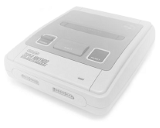
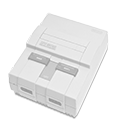
update preview

diff --git a/source/libgui/GuiFileBrowser.cpp b/source/libgui/GuiFileBrowser.cpp
@@ -49,6 +49,7 @@ static PixelColor rowPressColor(PixelColor tint, PixelColor accent)
 }
 
 GuiFileBrowser::GuiFileBrowser(int w, int h)
+	: previewDefaultImage(default_preview_png)
 {
 	width = w;
 	height = h;
@@ -248,19 +249,11 @@ void GuiFileBrowser::resetState()
 
 	// The listing itself just changed (new folder/device) - index N no
 	// longer refers to the same file it used to, so any cached/in-flight
-	// preview needs to go, and the display should show nothing until the
-	// new selection's preview resolves.
+	// preview needs to go. What's on screen stays until the new selection resolves.
 	if(previewCache)
 	{
 		previewCache->flush();
 		previewRequestedIndex = -1;
-		if(previewTarget && previewLastImage != nullptr)
-		{
-			previewTarget->setImage(nullptr);
-			previewLastImage = nullptr;
-			if(previewChangedCB)
-				previewChangedCB(previewChangedCBContext, previewTarget);
-		}
 	}
 }
 
@@ -290,6 +283,19 @@ void GuiFileBrowser::setPreviewImage(GuiImage * target, GuiPreviewPathResolver r
 	previewChangedCB = changedCB;
 	previewChangedCBContext = changedCBContext;
 	previewRequestedIndex = -1;
+	showPreview(&previewDefaultImage, true);
+}
+
+void GuiFileBrowser::showPreview(GuiImageData * img, bool isDefault)
+{
+	if(img == previewLastImage)
+		return;
+
+	previewTarget->setImage(img);
+	previewLastImage = img;
+	previewCache->pin(isDefault ? nullptr : img);
+	if(previewChangedCB)
+		previewChangedCB(previewChangedCBContext, previewTarget, isDefault);
 }
 
 void GuiFileBrowser::refreshPreview()
@@ -611,11 +617,13 @@ void GuiFileBrowser::update(InputController * controller)
 		if(browser.selIndex != previewRequestedIndex)
 		{
 			previewRequestedIndex = browser.selIndex;
+			previewSelHasPath = false;
 
 			char path[GUI_IMAGE_CACHE_MAX_PATH];
 			if(previewResolver && browser.selIndex >= 0 && browser.selIndex < browser.numEntries &&
 			   previewResolver(previewResolverContext, browser.selIndex, path, sizeof(path)))
 			{
+				previewSelHasPath = true;
 				previewCache->request(browser.selIndex, path);
 
 				int radius = previewCache->getPrefetchRadius();
@@ -634,17 +642,34 @@ void GuiFileBrowser::update(InputController * controller)
 			}
 		}
 
-		previewCache->update();
+		bool landed = previewCache->update();
 
 		if(previewTarget)
 		{
-			GuiImageData * img = previewCache->get(browser.selIndex);
-			if(img != previewLastImage)
+			if(landed && previewLastImage && previewLastImage != &previewDefaultImage)
 			{
-				previewTarget->setImage(img);
-				previewLastImage = img;
-				if(previewChangedCB)
-					previewChangedCB(previewChangedCBContext, previewTarget);
+				if(previewLastImage->getTexture())
+				{
+					previewTarget->setImage(previewLastImage);
+					if(previewChangedCB)
+						previewChangedCB(previewChangedCBContext, previewTarget, false);
+				}
+				else // that landing was a failed decode that wiped the slot: fall back, never blank
+				{
+					previewLastImage = nullptr;
+					showPreview(&previewDefaultImage, true);
+				}
+			}
+
+			if(!previewSelHasPath)
+				showPreview(&previewDefaultImage, true);
+			else if(previewCache->isResolved(browser.selIndex))
+			{
+				GuiImageData * img = previewCache->get(browser.selIndex);
+				if(img)
+					showPreview(img, false);
+				else
+					showPreview(&previewDefaultImage, true);
 			}
 		}
 	}

diff --git a/source/libgui/GuiImageAsyncCache.cpp b/source/libgui/GuiImageAsyncCache.cpp
@@ -85,7 +85,8 @@ void GuiImageAsyncCache::flush()
 		cache[i].index = -1;
 		cache[i].resolved = false;
 		cache[i].hasImage = false;
-		cache[i].image.clear();
+		if(&cache[i].image != pinned)
+			cache[i].image.clear(); // the displayed image stays valid until it's replaced
 	}
 	lruClock = 0;
 }
@@ -104,14 +105,17 @@ GuiImageAsyncCache::CacheSlot * GuiImageAsyncCache::acquireSlotFor(int index)
 	if(existing)
 		return existing;
 
+	// never hand out the slot that's on screen (unless it's the only one)
 	for(int i = 0; i < capacity; i++)
-		if(cache[i].index == -1)
+		if(cache[i].index == -1 && (&cache[i].image != pinned || capacity == 1))
 			return &cache[i];
 
-	CacheSlot * victim = &cache[0];
-	for(int i = 1; i < capacity; i++)
-		if(cache[i].lastUsed < victim->lastUsed)
+	CacheSlot * victim = nullptr;
+	for(int i = 0; i < capacity; i++)
+		if(&cache[i].image != pinned && (!victim || cache[i].lastUsed < victim->lastUsed))
 			victim = &cache[i];
+	if(!victim)
+		victim = &cache[0];
 
 	victim->index = -1;
 	victim->resolved = false;
@@ -119,7 +123,7 @@ GuiImageAsyncCache::CacheSlot * GuiImageAsyncCache::acquireSlotFor(int index)
 	return victim;
 }
 
-void GuiImageAsyncCache::update()
+bool GuiImageAsyncCache::update()
 {
 	int index;
 	GuiImageData::DecodedImage decoded;
@@ -127,7 +131,7 @@ void GuiImageAsyncCache::update()
 	{
 		MutexLock guard(mutex);
 		if(!completedReady)
-			return;
+			return false;
 		index = completedIndex;
 		decoded = std::move(completedImage);
 		completedReady = false;
@@ -135,13 +139,14 @@ void GuiImageAsyncCache::update()
 	}
 
 	if(index < 0)
-		return; // never file a result under the "empty slot" index
+		return false; // never file a result under the "empty slot" index
 
 	CacheSlot * slot = acquireSlotFor(index);
 	slot->index = index;
 	slot->lastUsed = ++lruClock;
 	slot->resolved = true;
 	slot->hasImage = decoded.valid() && slot->image.uploadDecoded(std::move(decoded));
+	return true;
 }
 
 void GuiImageAsyncCache::request(int index, const char * path)
@@ -204,6 +209,12 @@ GuiImageData * GuiImageAsyncCache::get(int index)
 	if(!slot || !slot->resolved || !slot->hasImage)
 		return nullptr;
 	return &slot->image;
+}
+
+bool GuiImageAsyncCache::isResolved(int index)
+{
+	CacheSlot * slot = findSlot(index);
+	return slot && slot->resolved;
 }
 
 void GuiImageAsyncCache::wake()

diff --git a/source/menu.cpp b/source/menu.cpp
@@ -1021,7 +1021,7 @@ static bool ResolvePreviewImagePath(void *, int index, char * outPath, size_t ou
 }
 
 // Fits the preview image inside its card (with a margin) and sizes the shadow behind it to match
-static void OnPreviewImageChanged(void * context, GuiImage * target)
+static void OnPreviewImageChanged(void * context, GuiImage * target, bool isDefault)
 {
 	MenuCoverShadow * shadow = (MenuCoverShadow *)context;
 	int w = 0, h = 0;
@@ -1033,7 +1033,7 @@ static void OnPreviewImageChanged(void * context, GuiImage * target)
 		w = (int)(target->getWidth() * scale + 0.5f);
 		h = (int)(target->getHeight() * scale + 0.5f);
 	}
-	shadow->fit(w, h);
+	shadow->fit(isDefault ? 0 : w, isDefault ? 0 : h); // the default image has no drop shadow
 }
 
 static int BrowserLoadFileTask(void *) { return BrowserLoadFile(); }
@@ -1263,9 +1263,6 @@ static int MenuGameSelection()
 	gameBrowser.setPosition(MENU_LIST_X, MENU_LIST_Y);
 	ResetBrowser();
 
-	MenuCardShape bgPreview(MENU_PREVIEW_W, MENU_PREVIEW_H);
-	bgPreview.setPosition(MENU_PREVIEW_X, MENU_LIST_Y);
-
 	MenuCoverShadow previewShadow;
 	previewShadow.setAlignment(ALIGN_H::CENTRE, ALIGN_V::MIDDLE);
 	previewShadow.setPosition(MENU_PREVIEW_X + MENU_PREVIEW_W/2 - platform->getVideo()->getScreenWidth()/2,
@@ -1286,7 +1283,6 @@ static int MenuGameSelection()
 	menu->btnLogo.setPosition(-50, 24);
 	menu->mainWindow.appendWithAutoRemove(&titleTxt);
 	menu->mainWindow.appendWithAutoRemove(&gameBrowser);
-	menu->mainWindow.appendWithAutoRemove(&bgPreview);
 	menu->mainWindow.appendWithAutoRemove(&previewShadow);
 	menu->mainWindow.appendWithAutoRemove(&preview);
 	menu->mainWindow.appendWithAutoRemove(&buttonWindow);

diff --git a/source/libgui/GuiImageAsyncCache.h b/source/libgui/GuiImageAsyncCache.h
@@ -57,7 +57,8 @@ class GuiImageAsyncCache
 
 		//!Call once per frame, before get(). Cheap; does nothing most frames.
 		//!Must be called from the main/GPU thread.
-		void update();
+		//!\return true if a decoded image was uploaded this call (which can overwrite a slot's texture)
+		bool update();
 
 		//!Requests the image for index, loaded from path. Cheap and non-blocking
 		void request(int index, const char * path);
@@ -71,6 +72,16 @@ class GuiImageAsyncCache
 		//!confirmed to have no image at that path). Never blocks. Main
 		//!thread only.
 		GuiImageData * get(int index);
+
+		//!\return true once index has finished loading, successfully or not (so a nullptr
+		//!from get() then means "no image", rather than "still loading"). Main thread only.
+		bool isResolved(int index);
+
+		//!Marks the image currently on screen so the cache never evicts, overwrites or
+		//!clears it while it's being displayed (GuiImage only borrows its texture).
+		//!Pass nullptr when the displayed image isn't one of this cache's. With capacity 1
+		//!the one slot can't be spared, so it's overwritten when the next image lands.
+		void pin(GuiImageData * img) { pinned = img; }
 
 		int getCapacity() const { return capacity; }
 		int getPrefetchRadius() const { return prefetchRadius; }
@@ -110,6 +121,7 @@ class GuiImageAsyncCache
 		std::unique_ptr<PrefetchSlot[]> prefetchSlots; // size: max(1, prefetchRadius*2)
 		int prefetchSlotCount;
 		uint32_t lruClock = 0;
+		GuiImageData * pinned = nullptr;
 
 		// ---- everything below is guarded by sync.mutex ----
 		Mutex mutex;

diff --git a/source/libgui/GuiFileBrowser.h b/source/libgui/GuiFileBrowser.h
@@ -21,8 +21,9 @@ class GuiArrow;
 typedef bool (*GuiPreviewPathResolver)(void * context, int index, char * outPath, size_t outPathSize);
 
 //!Called whenever GuiFileBrowser actually changes what target (the
-//!GuiImage passed to setPreviewImage()) is showing.
-typedef void (*GuiPreviewImageChangedCB)(void * context, GuiImage * target);
+//!GuiImage passed to setPreviewImage()) is showing. isDefault is true when it's the
+//!built-in default image rather than the selected entry's own preview.
+typedef void (*GuiPreviewImageChangedCB)(void * context, GuiImage * target, bool isDefault);
 
 //!Display a list of files
 class GuiFileBrowser : public GuiElement
@@ -93,4 +94,7 @@ class GuiFileBrowser : public GuiElement
 		GuiPreviewImageChangedCB previewChangedCB = nullptr;
 		void * previewChangedCBContext = nullptr;
 		int previewRequestedIndex = -1;
+		bool previewSelHasPath = false; // whether the selected entry has a preview file to load at all
+		GuiImageData previewDefaultImage; // shown for entries with no preview; the panel is never left empty
+		void showPreview(GuiImageData * img, bool isDefault);
 };
